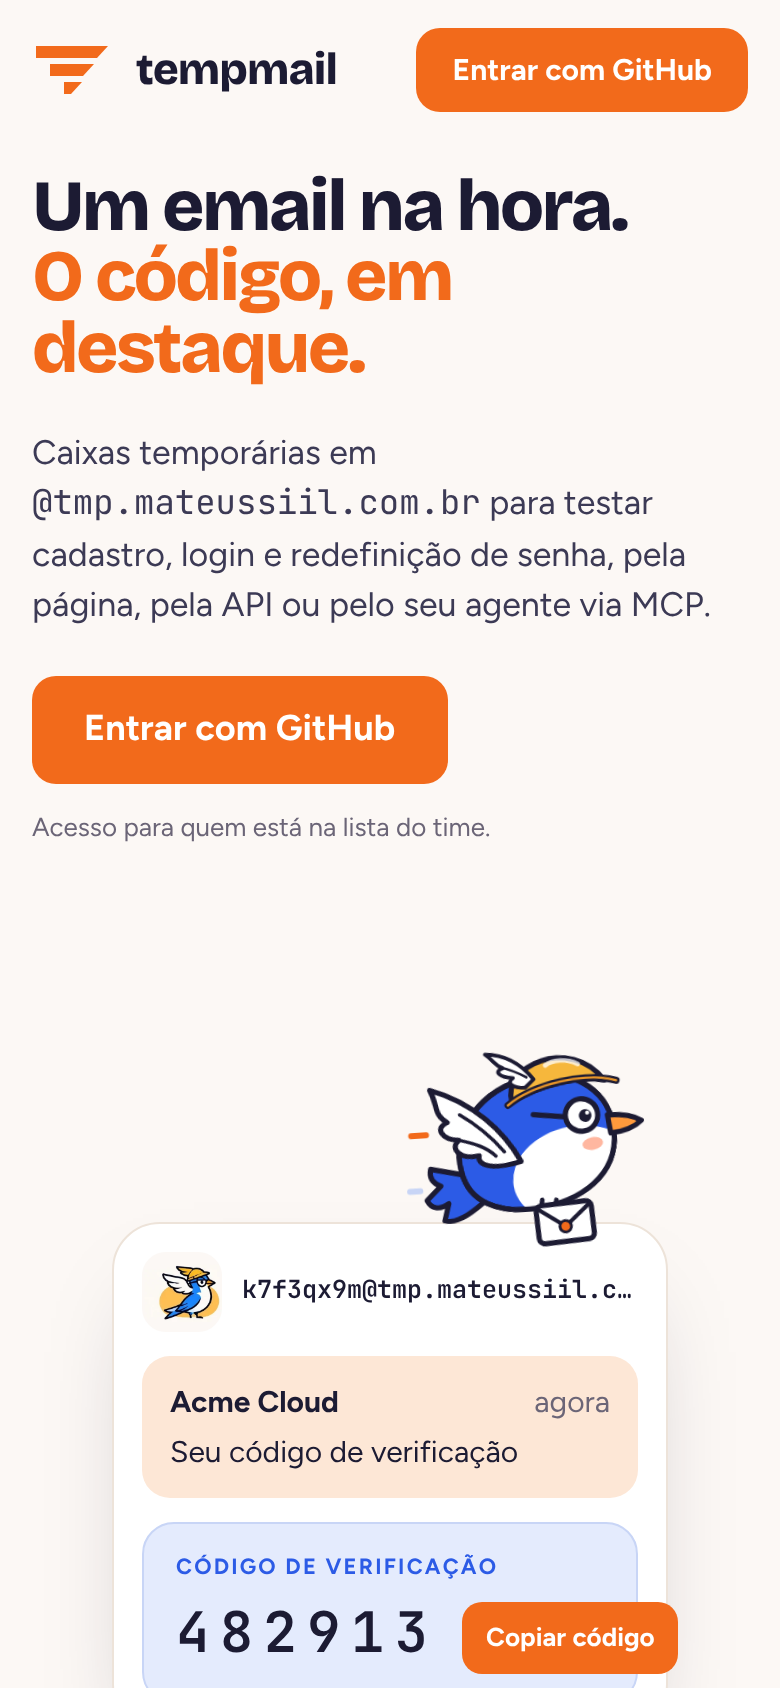
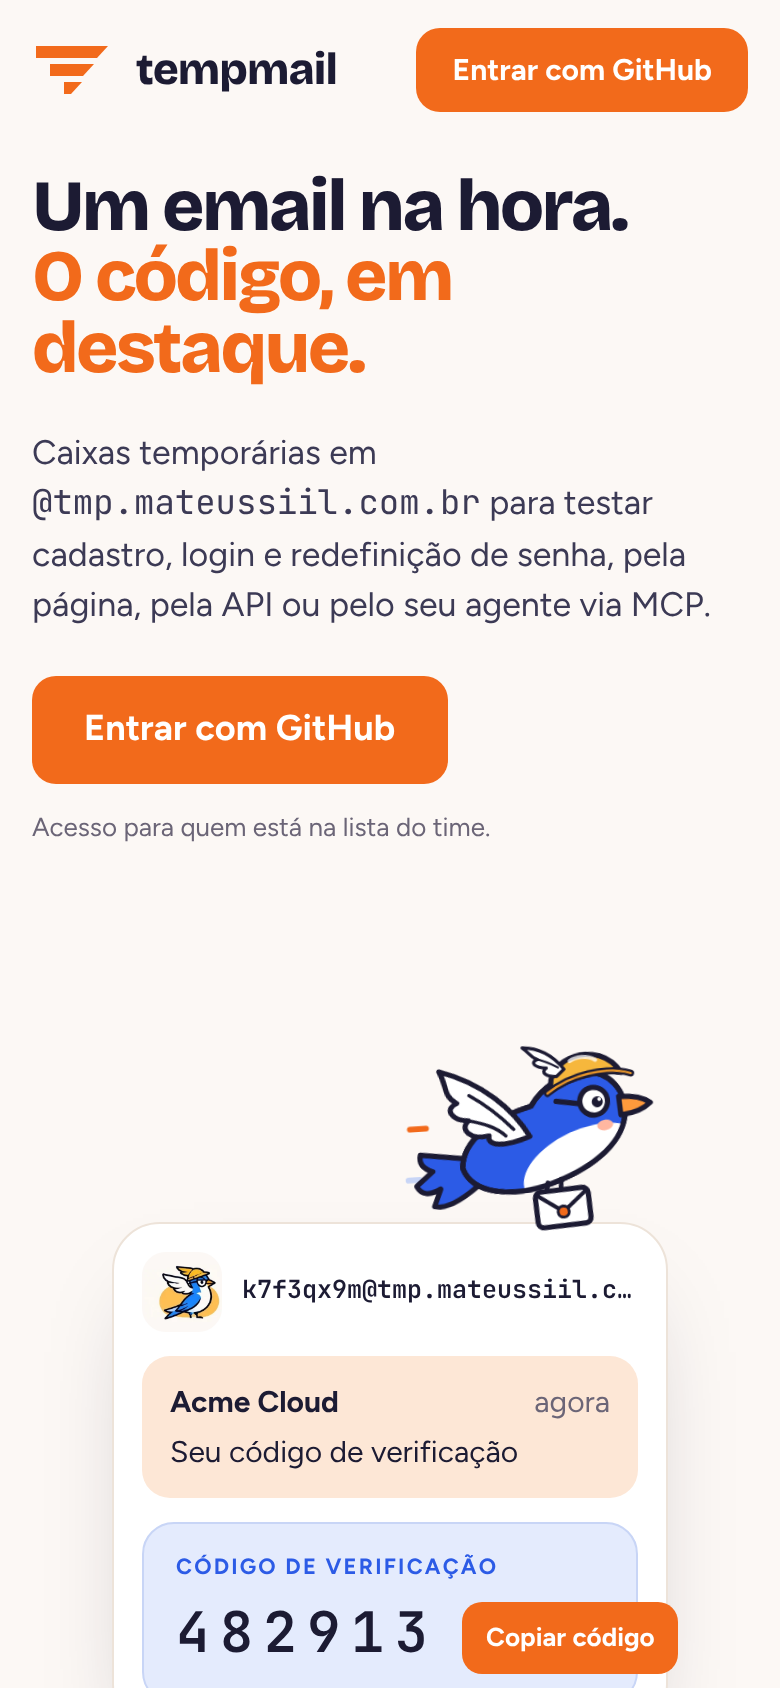
Hermes mais esguio: corpo alongado e cabeça menor
Claude-Session: https://claude.ai/code/session_013yhem54AWrN91AskNKcYQx

Changed region(s): [[0.5231, 0.6161, 0.8308, 0.7393]]

diff --git a/src/modules/membership/ui/HermesFlying.tsx b/src/modules/membership/ui/HermesFlying.tsx
@@ -5,10 +5,10 @@ type HermesFlyingProps = {
 };
 
 const BODY =
-  "M70 122C66 84 100 54 142 52C184 50 210 78 206 112C202 148 168 166 126 164C94 162 72 148 70 122Z";
+  "M70 118C74 94 104 80 138 76C150 62 168 54 188 56C210 58 222 78 216 100C208 124 178 140 138 146C108 150 74 142 70 118Z";
 
 /**
- * O Hermes em pleno voo, levando uma carta: vetor no mesmo traço da marca
+ * O Hermes, esguio, em pleno voo, levando uma carta: vetor no mesmo traço da marca
  * (contorno grosso, cores chapadas), com o capacete alado, os óculos e as
  * linhas de velocidade em laranja e céu. Sem fundo, serve no tema claro e no
  * escuro. Decorativo.
@@ -17,57 +17,57 @@ export function HermesFlying({ className }: HermesFlyingProps) {
   // Um id por desenho: o Hermes pode aparecer mais de uma vez na mesma página.
   const clipId = `hermes-body-${useId().replace(/:/g, "")}`;
   return (
-    <svg className={["hermes-flying", className].filter(Boolean).join(" ")} viewBox="0 0 250 210" aria-hidden="true" focusable="false">
+    <svg className={["hermes-flying", className].filter(Boolean).join(" ")} viewBox="0 0 250 200" aria-hidden="true" focusable="false">
       <defs>
         <clipPath id={clipId}>
           <path d={BODY} />
         </clipPath>
       </defs>
       <g className="hermes-trail" fill="none" strokeLinecap="round" strokeWidth="5">
-        <path className="hermes-trail-warm" d="M8 96h34" />
-        <path className="hermes-trail-cool" d="M18 120h20" />
-        <path className="hermes-trail-cool" d="M4 144h30" />
-        <path className="hermes-trail-warm" d="M22 166h14" />
+        <path className="hermes-trail-warm" d="M8 90h34" />
+        <path className="hermes-trail-cool" d="M18 112h20" />
+        <path className="hermes-trail-cool" d="M4 134h30" />
+        <path className="hermes-trail-warm" d="M22 154h14" />
       </g>
-      <g className="hermes-bird" transform="rotate(-7 140 120)" strokeWidth="4.5" strokeLinejoin="round" strokeLinecap="round">
+      <g className="hermes-bird" transform="rotate(-7 140 110)" strokeWidth="4.5" strokeLinejoin="round" strokeLinecap="round">
         {/* cauda */}
-        <path className="hermes-blue" d="M82 128L44 114Q40 124 50 130L36 140Q40 152 54 146L48 160Q60 166 88 148Z" />
+        <path className="hermes-blue" d="M80 112L36 100Q32 110 44 116L28 126Q32 138 48 132L40 146Q54 152 86 132Z" />
         {/* corpo, com a barriga branca */}
         <path className="hermes-blue" d={BODY} />
         <g clipPath={`url(#${clipId})`} stroke="none">
-          <ellipse className="hermes-white" cx="168" cy="142" rx="56" ry="42" />
+          <ellipse className="hermes-white" cx="174" cy="134" rx="56" ry="30" transform="rotate(-14 174 134)" />
         </g>
         <path d={BODY} fill="none" />
-        <ellipse className="hermes-cheek" cx="186" cy="118" rx="9" ry="5.5" stroke="none" />
-        <path className="hermes-beak" d="M203 96Q222 98 231 106Q221 113 203 112Z" />
+        <ellipse className="hermes-cheek" cx="198" cy="104" rx="7" ry="4.5" stroke="none" />
+        <path className="hermes-beak" d="M214 82Q232 84 240 92Q230 99 213 98Z" />
         {/* óculos */}
-        <path d="M140 84L167 91" fill="none" />
-        <circle className="hermes-white" cx="181" cy="92" r="14" />
-        <circle className="hermes-ink" cx="184" cy="93" r="5.5" stroke="none" />
-        <circle className="hermes-white" cx="186.2" cy="90.8" r="1.8" stroke="none" />
+        <path d="M160 76L180 82" fill="none" />
+        <circle className="hermes-white" cx="192" cy="82" r="12" />
+        <circle className="hermes-ink" cx="195" cy="83" r="4.8" stroke="none" />
+        <circle className="hermes-white" cx="197" cy="81" r="1.6" stroke="none" />
         {/* capacete alado */}
-        <path className="hermes-cap" d="M124 70C120 38 184 22 206 66C186 58 150 60 124 70Z" />
-        <path className="hermes-shine" d="M158 44C166 40 178 42 186 48" fill="none" strokeWidth="4" />
-        <path d="M120 72C146 58 190 56 216 68" fill="none" strokeWidth="6" />
-        <path className="hermes-cap-band" d="M120 72C146 58 190 56 216 68" fill="none" strokeWidth="2" />
-        <g transform="translate(146 54) scale(.72) translate(-136 -52)">
+        <path className="hermes-cap" d="M158 66C156 38 206 28 220 62C204 56 176 58 158 66Z" />
+        <path className="hermes-shine" d="M178 44C184 41 194 42 200 47" fill="none" strokeWidth="3.5" />
+        <path d="M154 68C176 56 208 54 228 64" fill="none" strokeWidth="6" />
+        <path className="hermes-cap-band" d="M154 68C176 56 208 54 228 64" fill="none" strokeWidth="2" />
+        <g transform="translate(172 50) scale(.62) translate(-136 -52)">
           <path className="hermes-white" d="M136 52C124 30 106 16 84 12C94 22 92 26 102 32C90 34 96 42 112 46C102 50 110 58 124 60Z" />
           <path d="M128 48C118 40 108 34 98 30" fill="none" strokeWidth="3" />
         </g>
         {/* asa */}
-        <g transform="translate(-6 10)">
+        <g transform="translate(0 -2)">
           <g className="hermes-wing">
-            <path className="hermes-white" d="M128 112C120 82 100 50 66 30C70 46 64 52 74 62C62 64 66 76 80 80C70 86 78 98 94 98C90 106 102 114 128 112Z" />
-            <path d="M86 58C98 70 108 84 116 100" fill="none" strokeWidth="3" />
-            <path d="M80 80C92 86 102 92 108 102" fill="none" strokeWidth="3" />
+            <path className="hermes-white" d="M132 104C124 76 104 46 70 26C74 42 68 48 78 58C66 60 70 72 84 76C74 82 82 94 98 94C94 102 106 108 132 104Z" />
+            <path d="M90 54C102 66 112 80 120 94" fill="none" strokeWidth="3" />
+            <path d="M84 76C96 82 106 88 112 98" fill="none" strokeWidth="3" />
           </g>
         </g>
         {/* pés e a carta */}
-        <path d="M134 158l-3 9M146 160l-2 8" fill="none" strokeWidth="4" />
-        <g transform="rotate(4 150 180)">
-          <rect className="hermes-white" x="126" y="164" width="48" height="33" rx="5" />
-          <path d="M128 167L150 184L172 167" fill="none" strokeWidth="3.5" />
-          <circle className="hermes-seal" cx="150" cy="184" r="5" strokeWidth="2.5" />
+        <path d="M140 144l-3 9M152 143l-2 9" fill="none" strokeWidth="4" />
+        <g transform="rotate(4 150 168)">
+          <rect className="hermes-white" x="126" y="152" width="46" height="31" rx="5" />
+          <path d="M128 155L149 171L170 155" fill="none" strokeWidth="3.5" />
+          <circle className="hermes-seal" cx="149" cy="171" r="4.8" strokeWidth="2.5" />
         </g>
       </g>
     </svg>
